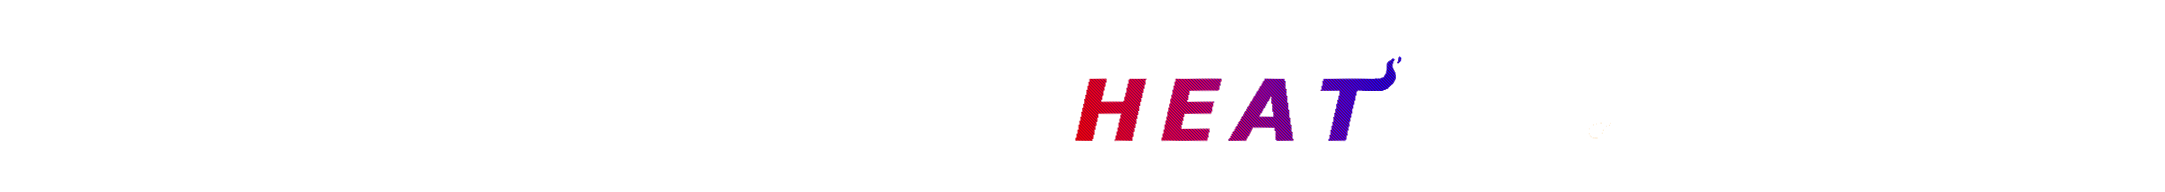
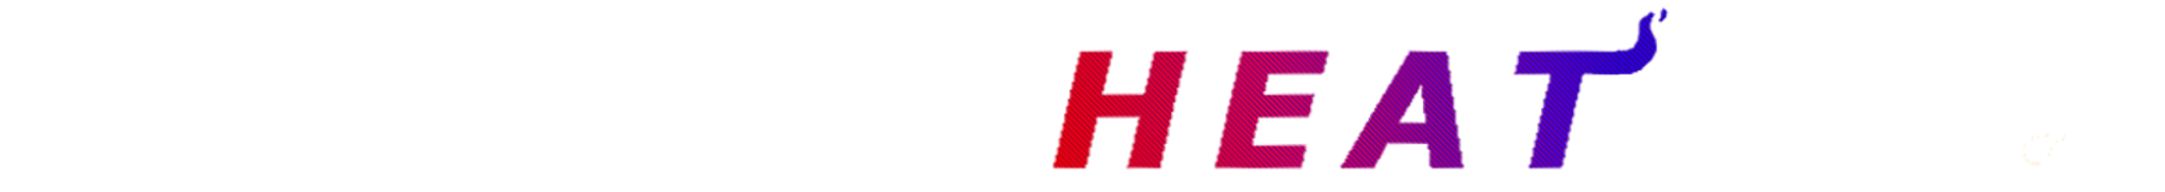
commit

Changed region(s): [[0.4642, 0.0625, 0.7737, 0.9062]]

diff --git a/CSS/main.css b/CSS/main.css
@@ -22,13 +22,14 @@
         width: 100%;
         display: block;
         position: fixed;
-        padding: 0;
+        padding: 3% 0 3% 0;
         top: 0;
         z-index: +9999;
     }
     
 div.banner > img {
-    width: 100%;margin: 0;
+    width: 100%;
+    margin: 0;
     padding: 0;
 }
     
